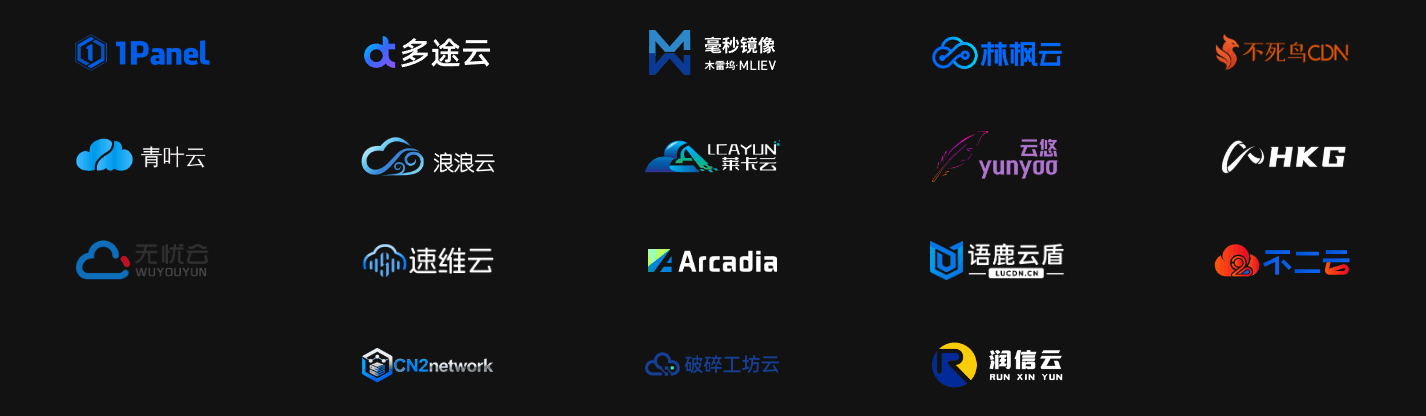
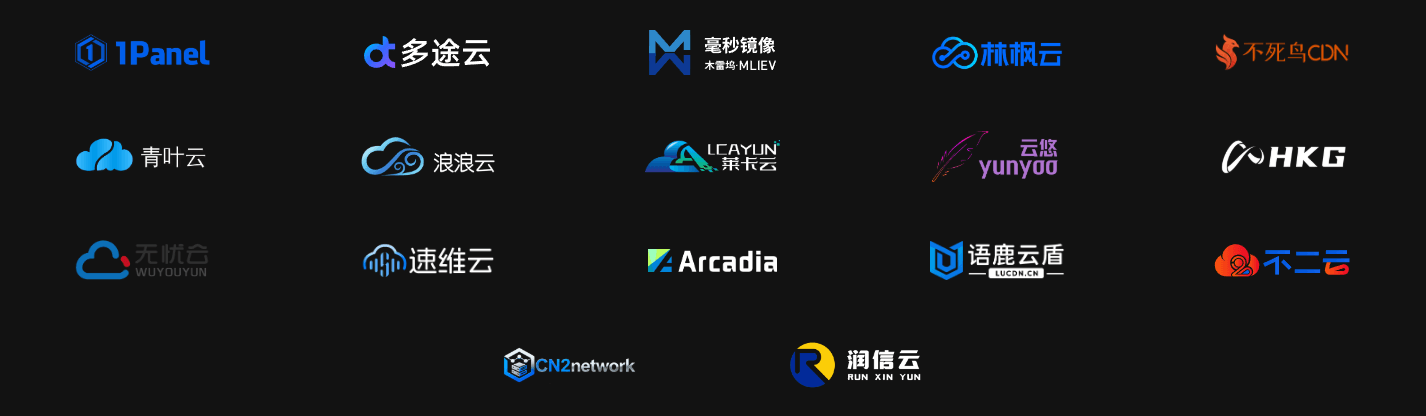
更新文档

Changed region(s): [[0.2468, 0.8125, 0.7405, 0.9375]]

diff --git a/docs/theme/partials/toc.html b/docs/theme/partials/toc.html
@@ -14,7 +14,7 @@
         <strong>{{'Sponsors' if i18n_page_locale == 'en' else '贊助商' if i18n_page_locale == 'zh-Hant' else '赞助商'}}</strong>
       </div>
       <div class="sponsor-wrapper sponsor-flex-wrapper-toc no-select">
-        <a class="sponsor-item sponsor-item-toc" target="_blank" rel="noopener noreferrer" href="https://1panel.cn" title="新一代的 Linux 服务器运维管理面板">
+        <a class="sponsor-item sponsor-item-toc sponsor-item-toc-full-row" target="_blank" rel="noopener noreferrer" href="https://1panel.cn" title="新一代的 Linux 服务器运维管理面板">
           <img src="/assets/images/sponsor/1panel.png" alt="1Panel" style="filter: grayscale(1) invert(0.6)" />
         </a>
         <a class="sponsor-item sponsor-item-toc" target="_blank" rel="noopener noreferrer" href="https://www.duotuyun.com" title="智能化防护，每一次连接皆在安全之下">
@@ -76,10 +76,6 @@
         <a class="sponsor-item sponsor-item-toc" target="_blank" rel="noopener noreferrer" href="https://idc.cn2network.com" title="超低价优质机器免实名自动开通">
           <img src="/assets/images/sponsor/cn2network.png#only-light" alt="CN2network" style="filter: grayscale(1) invert(0.4)" />
           <img src="/assets/images/sponsor/cn2network.png#only-dark" alt="CN2network" style="filter: grayscale(1) invert(0.3)" />
-        </a>
-        <a class="sponsor-item sponsor-item-toc" target="_blank" rel="noopener noreferrer" href="https://www.crash.work" title="专注高性能国内外云服务器">
-          <img src="/assets/images/sponsor/posuigongfangyun.png#only-light" alt="破碎工坊云" style="filter: grayscale(1) invert(0.2)" />
-          <img src="/assets/images/sponsor/posuigongfangyun.png#only-dark" alt="破碎工坊云" style="filter: grayscale(1) invert(0.8)" />
         </a>
         <a class="sponsor-item sponsor-item-toc" target="_blank" href="https://www.runxinyun.com" title="挂机宝海外云服务器低至9.9元/月">
           <img src="/assets/images/sponsor/runxinyun-light.png#only-light" alt="润信云" style="filter: grayscale(1) invert(0.5)" />

diff --git a/docs/sponsor/main.html b/docs/sponsor/main.html
@@ -67,19 +67,15 @@
       <img src="/assets/images/sponsor/yuluyundun-dark.png#only-dark" alt="语鹿云盾" />
     </a>
     <a class="sponsor-item sponsor-item-flex" target="_blank" rel="noopener noreferrer" href="https://cb2.cn" title="国内外建站快响应服务器的不二之选">
-      <!-- 26 1 15 -->
+      <!-- 26 2 15 -->
       <img src="/assets/images/sponsor/bueryun.svg" alt="不二云" style="width: 64% !important" />
     </a>
     <a class="sponsor-item sponsor-item-flex" target="_blank" rel="noopener noreferrer" href="https://idc.cn2network.com" title="超低价优质机器免实名自动开通">
       <!-- 26 2 14 -->
       <img src="/assets/images/sponsor/cn2network.png" alt="CN2network" />
     </a>
-    <a class="sponsor-item sponsor-item-flex" target="_blank" rel="noopener noreferrer" href="https://www.crash.work" title="专注高性能国内外云服务器">
-      <!-- 26 1 21 -->
-      <img src="/assets/images/sponsor/posuigongfangyun.png" alt="破碎工坊云" />
-    </a>
     <a class="sponsor-item sponsor-item-flex" target="_blank" href="https://www.runxinyun.com" title="国内挂机宝海外云服务器低至9.9元/月">
-      <!-- 26 1 14 -->
+      <!-- 26 4 14 -->
       <img src="/assets/images/sponsor/runxinyun-light.png#only-light" alt="润信云" />
       <img src="/assets/images/sponsor/runxinyun-dark.png#only-dark" alt="润信云" />
     </a>
